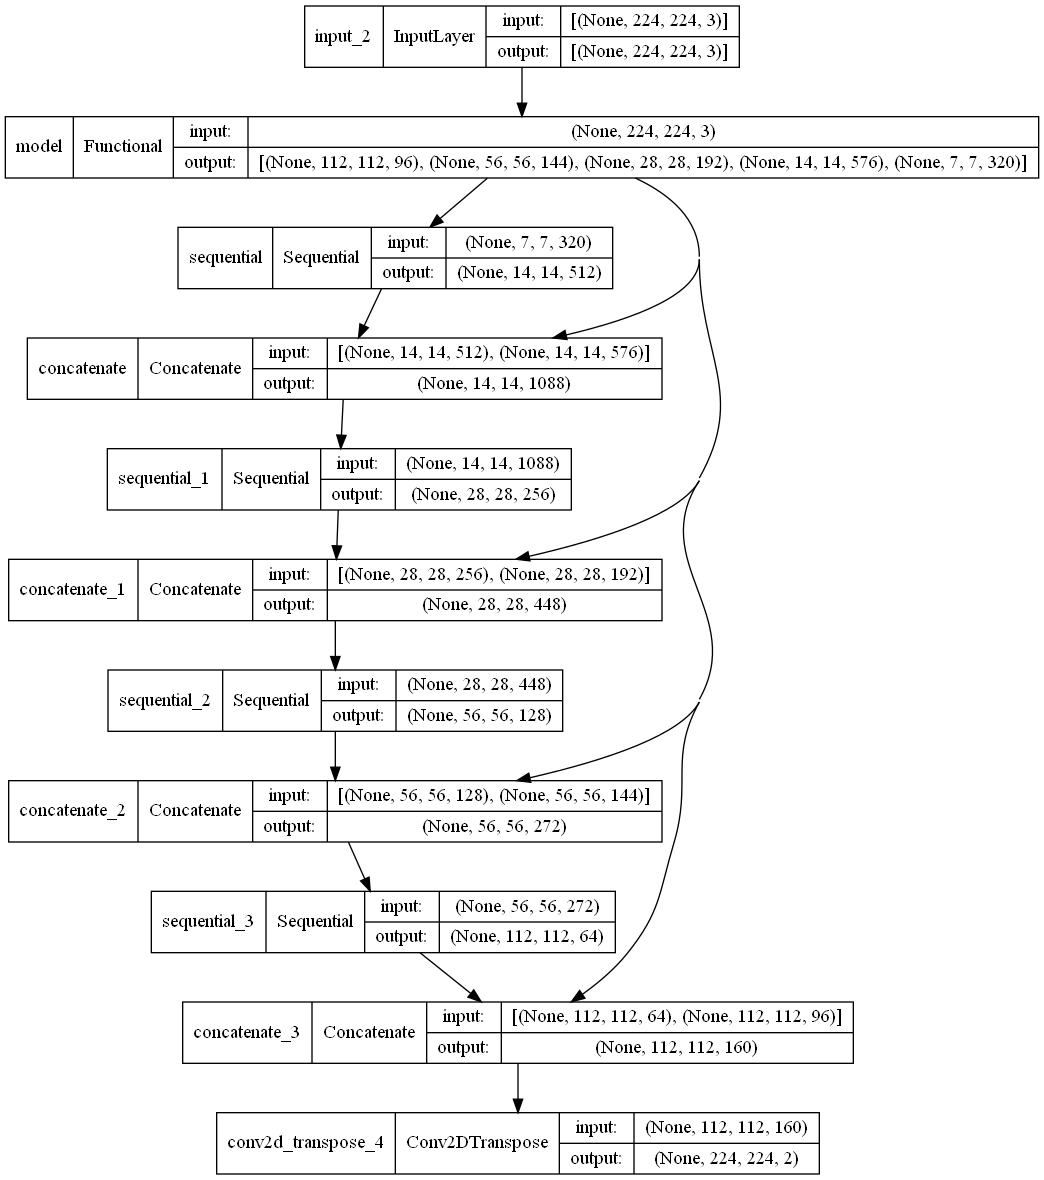
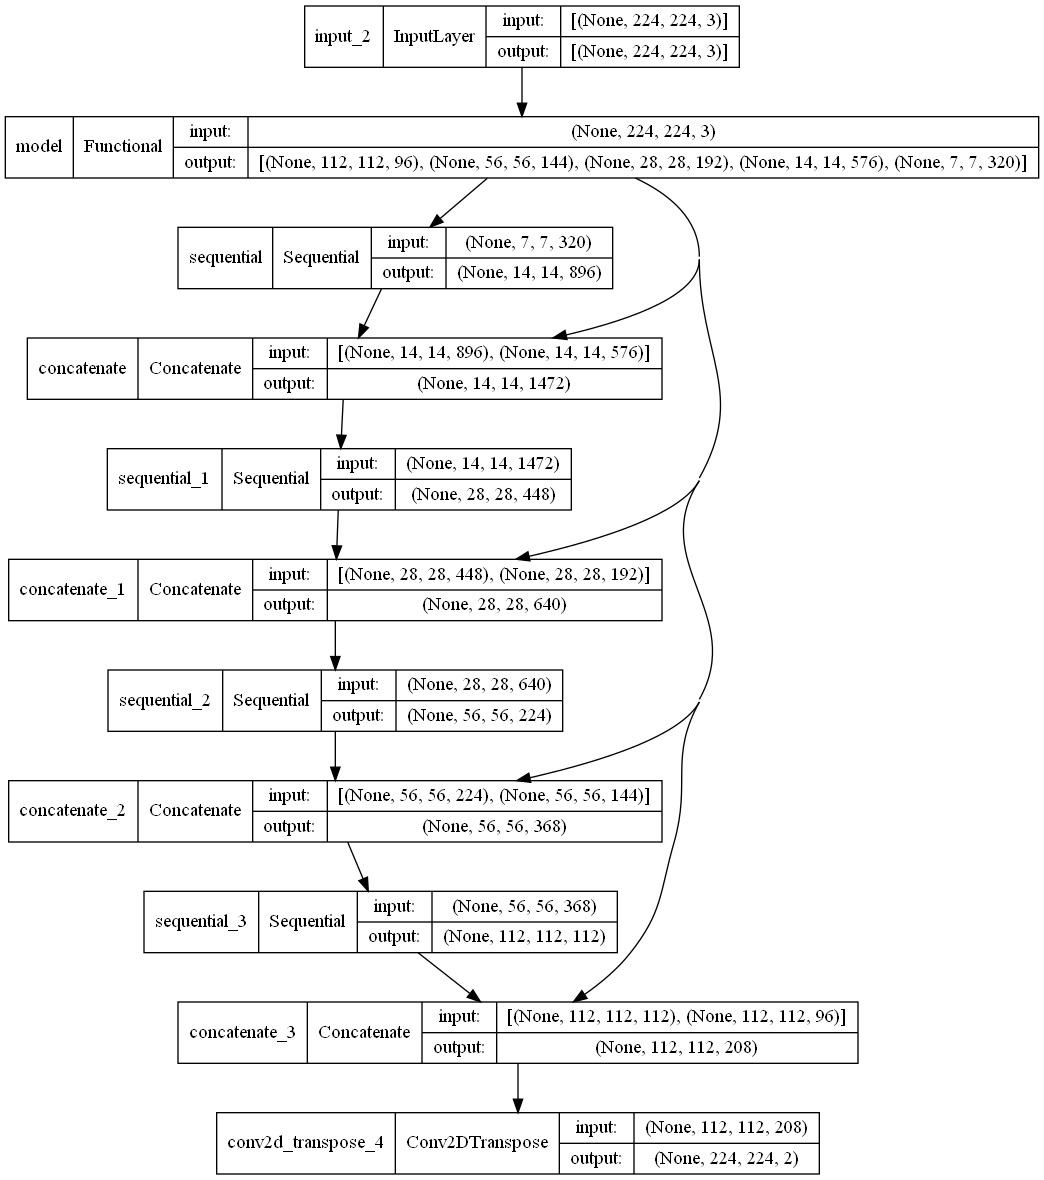
add mask prediction functionality

diff --git a/model.py b/model.py
@@ -1,16 +1,17 @@
 import tensorflow as tf
 import variables as var
 from tensorflow_examples.models.pix2pix import pix2pix
+from display import display
 
 base_model = tf.keras.applications.MobileNetV2(input_shape=[var.img_width, var.img_height, 3], include_top=False)
 
 # Use the activations of these layers
 layer_names = [
-    'block_1_expand_relu',   # 64x64
-    'block_3_expand_relu',   # 32x32
-    'block_6_expand_relu',   # 16x16
-    'block_13_expand_relu',  # 8x8
-    'block_16_project',      # 4x4
+    'block_1_expand_relu',   # 112x112
+    'block_3_expand_relu',   # 56x56
+    'block_6_expand_relu',   # 28x28
+    'block_13_expand_relu',  # 14x14
+    'block_16_project',      # 7x7
 ]
 base_model_outputs = [base_model.get_layer(name).output for name in layer_names]
 
@@ -20,10 +21,10 @@ down_stack = tf.keras.Model(inputs=base_model.input, outputs=base_model_outputs)
 down_stack.trainable = False
 
 up_stack = [
-    pix2pix.upsample(512, 3),  # 4x4 -> 8x8
-    pix2pix.upsample(256, 3),  # 8x8 -> 16x16
-    pix2pix.upsample(128, 3),  # 16x16 -> 32x32
-    pix2pix.upsample(64, 3),   # 32x32 -> 64x64
+    pix2pix.upsample(896, 3),  # 7x7 -> 14x14
+    pix2pix.upsample(448, 3),  # 14x14 -> 28x28
+    pix2pix.upsample(224, 3),  # 28x28 -> 56x56
+    pix2pix.upsample(112, 3),   # 56x56 -> 112x112
 ]
 
 def unet_model(output_channels:int):
@@ -49,7 +50,7 @@ def unet_model(output_channels:int):
 
   return tf.keras.Model(inputs=inputs, outputs=x)
 
-def create_model():
+def create_model(visualize=False):
     OUTPUT_CLASSES = 2
 
     model = unet_model(output_channels=OUTPUT_CLASSES)
@@ -57,6 +58,22 @@ def create_model():
                 loss=tf.keras.losses.SparseCategoricalCrossentropy(from_logits=True),
                 metrics=['accuracy'])
 
-    tf.keras.utils.plot_model(model, show_shapes=True)
+    if (visualize):
+      tf.keras.utils.plot_model(model, show_shapes=True)
 
     return model
+
+def create_mask(pred_mask):
+  pred_mask = tf.argmax(pred_mask, axis=-1)
+  pred_mask = pred_mask[..., tf.newaxis]
+  return pred_mask[0]
+
+def show_predictions(dataset=None, num=1):
+  if dataset:
+    for image, mask in dataset:
+      pred_mask = var.model.predict(image)
+      display([image[0], mask[0], create_mask(pred_mask)])
+  else:
+    display([var.sample_image, var.sample_mask, create_mask(var.model.predict(var.sample_image[tf.newaxis, ...]))])
+
+

diff --git a/main.py b/main.py
@@ -8,24 +8,33 @@ from Augment import Augment
 import file_processing as fp
 from display import display
 import variables as var
-import model
+import Model
+from DisplayCallback import DisplayCallback
 
 
-# train_batches = (
-#     fp.load_data("../data/train(small)/")
-#     .cache()
-#     .shuffle(var.BUFFER_SIZE)
-#     .batch(var.BATCH_SIZE)
-#     .repeat()
-#     .map(Augment())
-#     .prefetch(buffer_size=tf.data.AUTOTUNE))
+train_batches = (
+    fp.load_data("../data/train(small)/")
+    .cache()
+    .shuffle(var.BUFFER_SIZE)
+    .batch(var.BATCH_SIZE)
+    .repeat()
+    .map(Augment())
+    .prefetch(buffer_size=tf.data.AUTOTUNE))
 
-# test_batches = fp.load_data("../data/test(small)/").batch(var.BATCH_SIZE)
+test_batches = fp.load_data("../data/test(small)/").batch(var.BATCH_SIZE)
 
+# for images, masks in train_batches.take(1):
+#   var.sample_image, var.sample_mask = images[0], masks[0]
+#   # display([sample_image, sample_mask])
 
-# for images, masks in train_batches.take(3):
-#   sample_image, sample_mask = images[0], masks[0]
-#   display([sample_image, sample_mask])
+# # Model.create_model(visualize=True)
+# # Model.show_predictions()
 
-model.create_model()
+# var.model = Model.create_model()
+
+# model_history = var.model.fit(train_batches, epochs=var.EPOCHS,
+#                           steps_per_epoch=var.STEPS_PER_EPOCH,
+#                           validation_steps=var.VALIDATION_STEPS,
+#                           validation_data=test_batches,
+#                           callbacks=[DisplayCallback()])
 

diff --git a/variables.py b/variables.py
@@ -2,7 +2,16 @@ img_width = 224
 img_height = 224
 
 TRAIN_LENGTH = 200
-BATCH_SIZE = 32
+TEST_LENGTH = 40
+BATCH_SIZE = 8
 # Used for shuffle best practice is for it to be the same size or larger than the dataset
 BUFFER_SIZE = TRAIN_LENGTH
 STEPS_PER_EPOCH = TRAIN_LENGTH // BATCH_SIZE
+
+EPOCHS = 20
+VAL_SUBSPLITS = 5
+VALIDATION_STEPS = TEST_LENGTH//BATCH_SIZE//VAL_SUBSPLITS
+
+model = None
+sample_image = None
+sample_mask = None

diff --git a/file_processing.py b/file_processing.py
@@ -29,12 +29,14 @@ def load_data (directory):
 
     images = tf.convert_to_tensor(images)
     masks = tf.convert_to_tensor(masks)
+    print (images[0])
+    print (masks[0])
 
 
     dataset = tf.data.Dataset.from_tensor_slices((images, masks))
     sleep(10)
-    print(dataset)
-    print(type(dataset))
+    # print(dataset)
+    # print(type(dataset))
 
     return dataset
 

diff --git a/DisplayCallback.py b/DisplayCallback.py
@@ -1,0 +1,9 @@
+import Model
+import tensorflow as tf
+from IPython.display import clear_output
+
+class DisplayCallback(tf.keras.callbacks.Callback):
+  def on_epoch_end(self, epoch, logs=None):
+    clear_output(wait=True)
+    Model.show_predictions()
+    print ('\nSample Prediction after epoch {}\n'.format(epoch+1))
